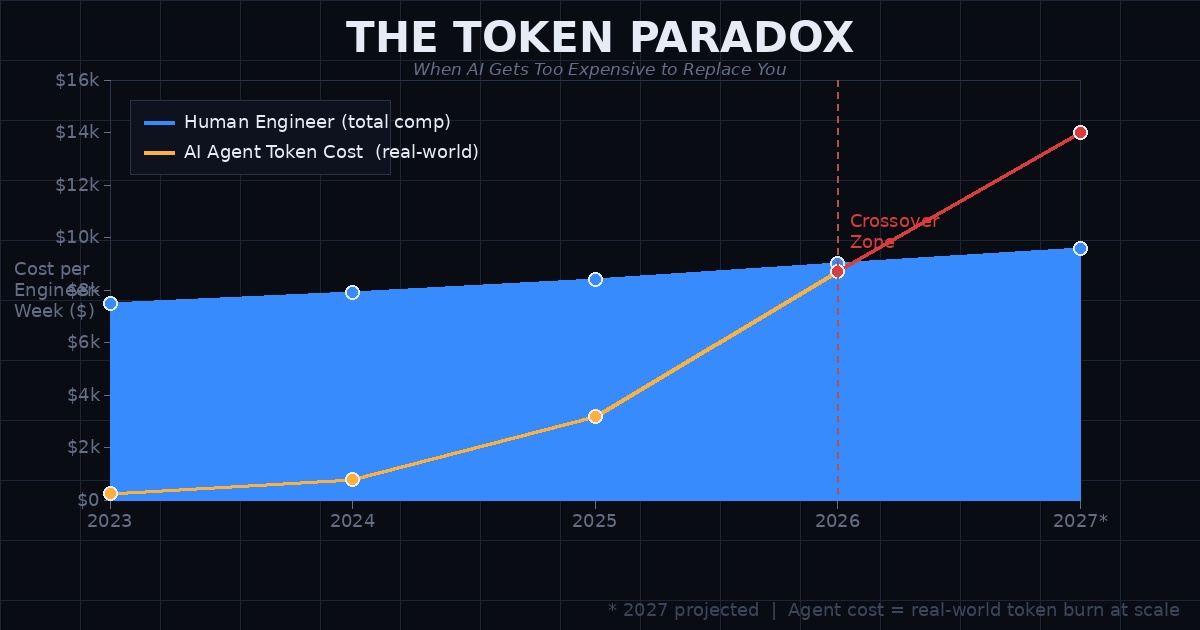
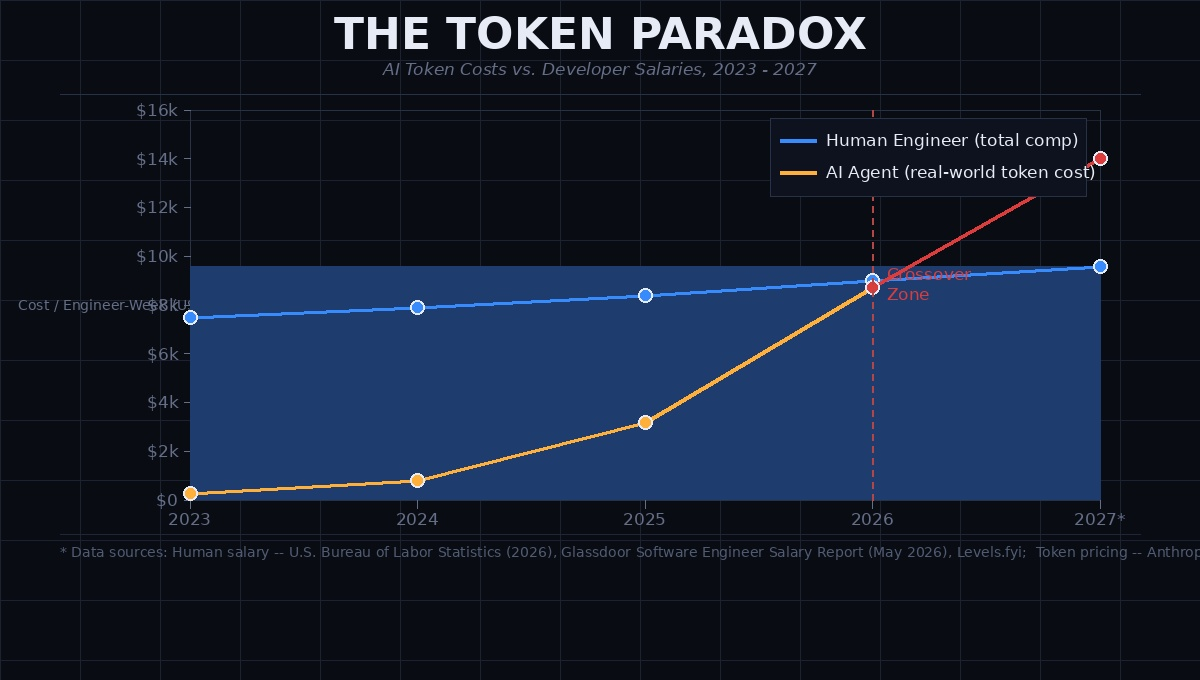
Add blog post: The Token Paradox — AI token economics vs developer salaries

diff --git a/content/blog/ai-token-economics/index.md b/content/blog/ai-token-economics/index.md
@@ -1,7 +1,7 @@
 ---
 title: 'The Token Paradox: When AI Gets Too Expensive to Replace You'
 date: 2026-05-01
-summary: 'A deep look at the economics of AI token costs versus developer salaries — and why the math that was supposed to make human labor obsolete may instead be staging its comeback.'
+summary: 'A look at the economics of AI token costs versus developer salaries, what the real numbers say, and why the math that was supposed to make human labor obsolete may be doing the opposite.'
 tags:
   - AI
   - Economics
@@ -9,141 +9,102 @@ tags:
   - Labor
   - Machine Learning
 image:
-  caption: 'Cost per engineer-week: human total compensation vs. real-world AI agent token burn, 2023–2027'
+  caption: 'Cost per engineer-week: human total compensation vs. real-world AI agent token burn, 2023 to 2027'
   focal_point: 'Center'
 ---
 
-The pitch was irresistible. Replace a \$150,000-per-year software engineer with a few cents of compute. Let the tokens do the thinking. Fire the humans and watch the margins expand. In 2023 and early 2024, spreadsheets built on this premise looked bulletproof.
+I have been following the AI-replaces-developers conversation since it picked up steam in 2023, mostly because it directly affects the field I am building a career in. The claim was straightforward: token costs are so low that routing work through an LLM API is cheaper than paying a human to do it. On paper, that argument was hard to refute. In practice, 2025 and 2026 have started to complicate it in ways worth examining.
 
-By May 2026, Uber's CTO had burned through his entire annual AI budget before summer. A Stockholm-based engineer told *The New York Times* he was spending more on Claude tokens than his own salary. Morgan Stanley pegged Big Tech's AI capital expenditures at **\$740 billion** in 2026 alone — a 69% jump over 2025 — while study after study struggled to find the productivity gains that were supposed to justify all of it.
-
-The revolution got expensive. And buried in the wreckage is one of the stranger economic stories of this decade: **the potential resurrection of human labor, driven by the very technology that was supposed to make it obsolete.**
+This post walks through the actual cost comparison, where the early numbers went wrong, and what I think the current trajectory means for people in technical roles.
 
 ---
 
-## The Original Math Was Real
+## The Math That Started the Conversation
 
-To be fair, the early numbers were genuinely stunning. At 2023–2024 token prices, a developer could route a well-defined coding task through an LLM API for pennies. One frequently-cited analysis calculated that GPT-4o-mini processed the equivalent token output of a developer's workday for roughly \$0.40 — compared to the ~\$600 a day (salary plus benefits) that a mid-level engineer in the US costs all-in.
+The original numbers were real. At 2023 to 2024 token prices, GPT-4o-mini could process the equivalent token output of a developer's workday for roughly \$0.40. A mid-level US software engineer costs around \$600 per day when you factor in salary, payroll taxes, and benefits. That is a 99.9% cost reduction, at least on paper, and it is why so many companies began treating headcount reduction as a near-term AI strategy.
 
-That is not a rounding error. That is a 99.9% cost reduction, on paper.
+Token prices continued falling through 2024 and into 2025. DeepSeek's release reset the pricing floor. OpenAI cut GPT-5 family rates significantly. Claude 4 landed at \$3 to \$5 per million input tokens, down from \$15 in earlier Opus releases. The assumption building in corporate planning cycles was that inference costs would approach negligible, and the only real engineering challenge remaining was orchestration.
 
-By late 2024 and into 2025, Anthropic, OpenAI, and Google were in a race to the bottom on per-token pricing that looked like it would only continue. DeepSeek's surprise release in early 2025 obliterated the pricing floor. OpenAI slashed the GPT-5 family rates. Claude 4 dropped to \$3–\$5 per million input tokens — down from \$15 in early Opus releases. The consensus in VC circles was that inference would approach free, and the only cost center left would be whatever clever orchestration layer sat on top.
-
-Then reality showed up.
+That assumption did not account for how agents actually consume tokens.
 
 ---
 
-## Where the Math Breaks
+## Where the Single-Token Math Fails
 
-The problem is not the cost of a single token. The problem is how many tokens an agent actually burns to get something useful done.
+The per-token price is not the problem. The problem is the volume of tokens a real agentic workflow burns to complete a non-trivial task.
 
-### Context Is the Hidden Multiplier
+A production AI coding agent does not process a request and return a finished result. It reads relevant files, generates code, runs tests, encounters failures, reads the error output, revises the code, re-reads files it already processed, potentially calls external tools, and loops through this cycle multiple times before surfacing anything reviewable. A task that looks like a 10,000-token job on a whiteboard can consume 700,000 tokens or more in execution. That is before accounting for orchestration overhead, multi-model pipelines, and output token costs.
 
-Modern AI coding agents don't process a task once and return an answer. They loop. They read files, write code, run tests, fail, read error messages, revise, re-read files they've already read, consult docs, fail again, and surface a result. Every step adds tokens to the context window. A task that looks like a 10,000-token job on a whiteboard can turn into a 700,000-token operation in practice — and that's before you factor in agentic orchestration overhead, tool-call wrapping, and multi-model pipelines that route to different LLMs for specialized sub-tasks.
+Retool's engineering team published a cost breakdown of what continuous agent operation looks like in production. A persistent agent running standard working hours can consume 700 million tokens per week. At Claude Sonnet 4.6's current pricing of approximately \$3 per million input tokens, that comes to roughly \$2,100 per agent per week in input tokens alone, before any output costs, infrastructure, or review overhead.
 
-Retool's engineering team published a [detailed breakdown](https://retool.com/blog/cost-of-ai-agents-hourly-pricing-model) of what continuous agent operation actually costs. A persistent agent running through a standard workday can consume 700 million tokens per week. At Claude Sonnet 4.6's current pricing of roughly \$3 per million input tokens, that works out to **\$2,100 per agent per week** — before output tokens, before orchestration, before storage, before the human who has to review whatever it produced.
-
-A mid-level US software engineer costs roughly \$7,500–\$9,000 per week in total compensation (salary, payroll taxes, benefits, equipment). At peak agent token burn, you're looking at **23–28% of that cost**, which still sounds like a win — until you look at what you actually got.
-
-### The Quality and Oversight Problem
-
-The METR study that circulated in mid-2025 was the most rigorous piece of evidence to date on AI's actual effect on developer productivity: across experienced open-source developers, allowing AI tools **increased task completion time by 19%** on average. Developers *believed* AI made them 20% faster. They were wrong by 39 percentage points.
-
-A separate analysis from Faros.ai found that AI coding assistants increased individual developer output without increasing company productivity — the work got faster, but the review burden, rework rate, and coordination overhead absorbed most of the gain. PR review time on AI-heavy teams climbed 91%.
-
-These are not arguments that AI is useless. A subset of developers — roughly the top quintile — genuinely achieved 16–30% productivity improvements. For well-defined, bounded tasks with clear acceptance criteria, AI agents still deliver real cost savings. But the "replace the entire engineering department" scenario requires AI to operate autonomously on complex, ambiguous, multi-dependency work — which is exactly where the token consumption explodes and the output quality degrades.
+A mid-level US software engineer costs \$7,500 to \$9,000 per week in total compensation. At that comparison, an agent at full token burn is running at about 23 to 28 percent of a human engineer's cost. That still sounds like a win, and it might be, depending on the output quality. That is where the second problem comes in.
 
 ---
 
-## The Full Cost Stack Nobody Was Showing Investors
+## What Research Says About Output Quality
 
-The token line item is only the beginning. A production AI agent system in 2026 carries a cost stack that looks something like this:
+The most rigorous study I have seen on this was the METR randomized controlled trial from mid-2025. It measured experienced open-source developers working on real tasks with and without AI tooling. The result was that allowing AI tools increased average task completion time by 19 percent. The same developers estimated AI had made them 20 percent faster. The gap between perception and measured outcome was 39 percentage points.
 
-| Cost Layer | Monthly Estimate (mid-scale) |
+A separate analysis from Faros.ai tracked AI adoption across engineering teams and found that AI coding assistants increased individual output metrics without increasing company-level productivity. The work moved faster in some respects, but review burden, rework rates, and coordination overhead absorbed most of the gain. PR review time on high-AI-adoption teams increased 91 percent.
+
+These findings do not mean AI tools are useless. The top 20 percent of developers in those studies did see genuine 16 to 30 percent productivity improvements. For bounded, well-specified tasks with clear success criteria, AI agents deliver real value. The problem is that the tasks companies most want to replace humans on are the complex, ambiguous, multi-dependency tasks. Those are structurally the highest token consumers and the lowest reliability outputs.
+
+---
+
+## The Full Cost Stack
+
+The token API bill is one line item. A production AI agent system in 2026 carries a broader cost structure:
+
+| Cost Layer | Monthly Estimate |
 |---|---|
-| LLM API tokens | \$3,200 – \$13,000 |
-| Infrastructure (compute, storage, queues) | \$800 – \$2,500 |
-| Monitoring & observability tooling | \$400 – \$1,200 |
-| Human oversight / review labor | \$2,000 – \$8,000 |
-| Security, compliance, incident response | \$500 – \$2,000 |
-| Model fine-tuning / prompt engineering | \$1,000 – \$4,000 |
-| **Total** | **\$7,900 – \$30,700 / month** |
+| LLM API tokens | \$3,200 to \$13,000 |
+| Infrastructure (compute, storage, queues) | \$800 to \$2,500 |
+| Monitoring and observability | \$400 to \$1,200 |
+| Human oversight and review labor | \$2,000 to \$8,000 |
+| Security, compliance, incident response | \$500 to \$2,000 |
+| Model tuning and prompt engineering | \$1,000 to \$4,000 |
+| **Total** | **\$7,900 to \$30,700 / month** |
 
-That top-end figure is \$368,000 per year — more than two senior engineers in most US markets, and considerably more than what you'd pay a team of two in Eastern Europe or South Asia.
+The high end of that range is \$368,000 annually. That is more than two senior engineers in most US markets, and more than what you would budget for a team of two offshore. A 2026 enterprise study found AI is cheaper than humans in only 23 percent of tasks, compared to estimates as high as 80 percent that circulated in 2023. The tasks where AI wins remain narrow: high-volume, low-judgment, clearly specified, with no tolerance for ambiguity.
 
-A 2026 study measuring AI cost-effectiveness across real enterprise deployments found that **AI is now cheaper than humans in only 23% of tasks** — down from estimates as high as 80% that were circulating in 2023. The tasks where AI wins are narrow: high-volume, low-judgment, highly repetitive, with clear success criteria and minimal ambiguity. The other 77% are more expensive, slower, or both.
-
----
-
-## The Ironic Resurrection
-
-Here's where the story gets strange.
-
-In 2023 and 2024, tech layoffs were brutal and explicit. Companies announced they were reducing headcount in anticipation of AI-driven productivity gains. Goldman Sachs estimated 300 million jobs globally at risk. The narrative was clean: capital defeats labor, tokens replace time.
-
-What actually happened is messier. Companies that laid off engineering teams discovered that the agentic pipelines meant to replace them required:
-
-- **Human prompt engineers** to design and maintain the task specifications
-- **Human reviewers** to catch the 15–30% error rate on non-trivial output
-- **Human architects** to design the systems the agents operate within
-- **Human escalation paths** for the edge cases that agents handle catastrophically
-
-Some of these roles pay *more* than the roles they replaced. An "AI systems engineer" or "agent reliability engineer" — someone who keeps agentic pipelines running, monitors costs, and handles failure modes — commands a premium precisely because of how scarce the skill set is.
-
-Meanwhile, for companies that never over-automated, a funny thing happened: **skilled human engineers became more valuable**, not less. The developers who can work fluidly alongside AI tooling — using it for the 23% of tasks where it genuinely accelerates output, and not reaching for it when it creates more overhead than it saves — are now the most productive individuals in their field, and the labor market is starting to price that accordingly.
-
-Tom's Hardware summarized this cleanly in a recent piece: *"Efficient workers might be the solution to strained budgets."* Not the absence of AI — the presence of people who use it well.
+Uber's CTO reportedly exhausted his entire 2026 AI budget ahead of schedule due to token costs. A software engineer in Stockholm told the New York Times he was spending more on Claude tokens than his own salary. Morgan Stanley tracked Big Tech AI capital expenditures at \$740 billion in 2026, a 69 percent increase over 2025, while over 80 percent of companies using AI in one study showed no measurable productivity benefit.
 
 ---
 
-## Projecting the Cost Curve
+## The Ironic Part
 
-Token prices will continue to fall. That part of the original thesis isn't wrong — just delayed and non-linear. Hardware improvements, inference optimization, and competitive pressure from open-source models will keep squeezing the per-token cost.
+Here is what I find genuinely interesting about where this has landed. The companies that ran hard at full-scale AI replacement of engineering teams are now running into a version of the problem they were trying to solve. The agentic pipelines they built to replace engineers require human prompt engineers to maintain task specifications, human reviewers to catch the 15 to 30 percent error rate on complex output, human architects to design the systems agents operate within, and human engineers to handle the failure modes agents produce at scale. Some of those roles pay more than the positions they nominally replaced because the skill set is new and scarce.
 
-But two countervailing forces are likely to prevent tokens from becoming economically trivial:
+Tom's Hardware summarized it well in a recent piece: "Efficient workers might be the solution to strained budgets." The same publication that covers GPU releases wrote that companies burning through AI budgets might have been better served by retaining skilled humans who could do the work reliably without the infrastructure overhead.
 
-**1. Demand grows faster than price drops.** As models get cheaper, usage expands — both in breadth (more use cases) and depth (more tokens per use case). This is the classic Jevons Paradox: efficiency improvements in resource consumption tend to increase total resource consumption, not decrease it. Every time token prices drop 50%, agentic applications find ways to burn twice as many.
-
-**2. The complexity ceiling.** The tasks that remain for AI to tackle — the ones that would genuinely replace expensive human judgment — are the tasks that require the most context, the longest chains of reasoning, and the most validation loops. These are structurally the most token-intensive tasks in the queue. Cheaper tokens don't help if the task requires ten times more of them.
-
-The 2027 projection on the chart above assumes token prices continue declining on the infrastructure side, but that real-world agent deployments targeting complex engineering work consume tokens at a rate that keeps effective weekly costs above the crossover point with human compensation.
-
-If that projection holds, the economics of AI-as-labor-replacement look roughly like this:
-
-- **Narrow, repetitive tasks**: AI wins decisively, permanently
-- **Mid-complexity, bounded tasks**: AI wins on cost but requires meaningful human oversight; net savings 30–50%
-- **Complex, ambiguous, multi-dependency work**: Humans remain cheaper or comparably priced, with substantially higher reliability
-
-That middle tier is where the interesting hiring decisions are being made right now.
+This is not a novel pattern in economic history. The loom displaced hand-weavers and created demand for factory workers, mechanics, and engineers. Automotive assembly automation eliminated manual line jobs and created machinist, programmer, and QA roles that paid more. AI is moving through a similar cycle but faster. The displacement is happening. So is the creation of new roles for people who understand how to govern the systems doing the displacing.
 
 ---
 
-## What This Means If You're Building a Career
+## What This Means for the Cost Curve Going Forward
 
-The labor market implications depend heavily on which tier of work you're positioned in.
+Token prices will keep falling. Hardware improvements, inference optimization, and open-source competition will continue pushing per-token costs down. That part of the original argument was not wrong, just early.
 
-If you are doing work that is high-volume, rule-based, and precisely specifiable — data entry, boilerplate code generation, templated content creation, routine QA — the economics of AI replacement are already compelling and will only improve. That work is gone or going.
+The complication is the Jevons Paradox. As resources get cheaper, consumption increases. Every time inference costs drop by half, the practical deployments of AI agents expand to fill the space, and they burn tokens at a rate that preserves or increases total cost. The tasks that remain most valuable to automate are the ones that require the most context and the longest reasoning chains, which are structurally the most expensive to run.
 
-If you are doing work that requires judgment, contextual reasoning, relationship management, or accountability for outcomes — senior engineering, architecture, product strategy, security, anything where "it looked fine to the model" is not an acceptable failure mode — you are likely to see your value increase, not decrease. The leverage AI provides to people in this tier is enormous, and the cost of replacing those people with agents is now empirically demonstrated to be higher than most companies budgeted for.
+The 2027 projection in the chart reflects this: token unit prices continue declining, but real-world agent deployments targeting meaningful engineering work consume tokens at a volume that keeps effective weekly costs at or above the crossover point with human compensation.
 
-The most durable position is neither "I refuse to use AI" nor "AI can handle everything." It's developing the judgment to know which 23% of tasks to hand off and which 77% to own — and being fast enough at both that you're cheaper than a poorly-supervised agent pipeline.
+Based on current trajectories, the economics break down roughly as follows:
 
-That skill set, ironically, is now scarce.
-
----
-
-## The Broader Pattern
-
-None of this is particularly new in economic history. New technology consistently displaces specific categories of labor while simultaneously creating demand for labor that can govern, maintain, and extend the technology. The loom displaced hand-weavers and created demand for factory workers, engineers, and mechanics. Automation in manufacturing eliminated assembly-line jobs and created machinist, programmer, and quality-assurance roles that paid more.
-
-AI is following a similar arc, but compressed into years rather than decades. The displacement is real. The creation is also real. The irony is that the overcorrection — the mass layoffs, the aggressive replacement timelines, the budget miscalculations — has, in some corners of the market, already reversed course. Companies are quietly hiring back the engineers they displaced or discovering that the contractors they retained are now load-bearing in ways they didn't anticipate.
-
-Whether that's a permanent structural shift or a temporary correction while models improve is genuinely unclear. The 2028 model landscape might change the math again. But right now, in May 2026, the headline is not "AI made human engineers obsolete."
-
-The headline is closer to: **"We spent a lot of money finding out that's harder than it looked."**
-
-And the engineers who survived the first wave — who understand both the capability and the cost — are in a position that would have been difficult to predict from the vantage point of 2023.
+- Narrow, repetitive, high-volume tasks: AI wins and will continue to win
+- Bounded tasks with clear success criteria: AI wins on cost with meaningful human oversight, net savings 30 to 50 percent
+- Complex, ambiguous, multi-dependency work: humans are comparably priced or cheaper, with substantially higher reliability
 
 ---
 
-*Isaiah Byrdsong is a cybersecurity and IT professional with a background in intelligence analysis, network security, and AI-assisted systems. The projections in this post represent the author's synthesis of current publicly available data and do not constitute financial or investment advice.*
+## What I Take From This
+
+I am in a cybersecurity and IT track, not pure software development, but the dynamics apply. The roles most at risk in technical fields are the ones that look like predictable, repeatable input-output functions. The roles with the most durability are the ones that require judgment, accountability, and the ability to reason across domains when the situation does not match the training data.
+
+The practical edge I am trying to build is not in knowing how to use AI tools, which is table stakes at this point. It is in knowing when to use them and when the token cost and review burden make it cheaper and faster to do the work directly. That judgment, based on everything I have looked at, is not something agents are particularly good at yet.
+
+The engineers who understood how to use AI tools well before they were commodified are now the most productive people in the field. Whether that advantage persists as tooling matures is an open question. For now, I think the most defensible position is the one where you are useful regardless of what the token price is.
+
+---
+
+*Sources: BLS Occupational Outlook 2026, Glassdoor Software Engineer Salary Report (May 2026), Levels.fyi, Anthropic/OpenAI/Google official API pricing (May 2026), TLDL.io LLM Pricing Tracker, METR Developer Productivity Study (2025), Faros.ai AI Productivity Paradox Report, Retool Engineering Blog on AI agent pricing, Futurism.com and Axios reporting on enterprise AI costs, Tom's Hardware "Talent Over Tokens" (2026), Morgan Stanley AI capex analysis (2026).*